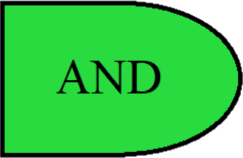
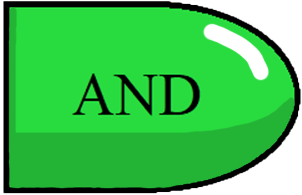
Updated the scBONITA visualizer

diff --git a/visualizer/node.py b/visualizer/node.py
@@ -1,40 +1,58 @@
 import pygame
 import math
 from object import Object
+import pygame.freetype
 
 class Node(Object):
     def __init__(self, name, position, color):
         super().__init__(name, position, color)
+
+        pygame.freetype.init()
         
         # Create a surface for drawing the node
-        self.image = pygame.Surface((self.size * 2, self.size * 2), pygame.SRCALPHA)
+        self.image = pygame.Surface((self.size/2, self.size/2), pygame.SRCALPHA)
 
-        self.rect = self.image.get_rect(center=self.position)
-        self.original_image = self.image.copy()
+        self.inactive_image = pygame.image.load('visualizer/images/node_inactive.png').convert_alpha()
+        self.active_image = pygame.image.load('visualizer/images/node_active.png').convert_alpha()
+
+        self.inactive_scaled_image = pygame.transform.scale(self.inactive_image, (self.size, self.size))
+        self.active_scaled_image = pygame.transform.scale(self.active_image, (self.size, self.size))
 
         self.activation_threshold = 1
-        
+
+        self.image = self.inactive_image
+        self.rect = self.image.get_rect(center=self.position)
+        self.original_image = self.image
+
+        self.font_size = 32
+        self.font = pygame.freetype.Font(None, self.font_size)
+
         # Circle and text will be drawn on self.image
         self.draw_circle()
         self.draw_object_function = self.draw_circle
 
+        self.angle = 0
+
     def draw_circle(self):
         # Clear the image
-        self.image.fill((0, 0, 0, 0))
+        if self.state == 0:
+            self.image = self.inactive_scaled_image
+        elif self.state == 1:
+            self.image = self.active_scaled_image
 
-        pygame.draw.circle(self.image, self.highlight_color, (self.size, self.size), self.highlight_size)
-        pygame.draw.circle(self.image, self.color, (self.size, self.size), self.size-8)
+
+        # Apply rotation if needed
+        self.rect = self.image.get_rect(center=self.position)
         
-        black_text = self.font.render(self.name, True, "black")
-
-        black_text_rect = black_text.get_rect(center=(self.size, self.size))
-        self.image.blit(black_text, black_text_rect)
+        text_surface, text_rect = self.font.render(self.name, pygame.Color('black'))
+        text_rect.center = (self.size/2, self.size/2)
+        self.image.blit(text_surface, text_rect)
 
         self.original_image = self.image.copy()  # Update the original image
     
     def set_size(self, new_size):
         self.size = new_size
-        self.image = pygame.Surface((self.size * 2, self.size * 2), pygame.SRCALPHA)
+        self.image = pygame.Surface((self.size, self.size), pygame.SRCALPHA)
         self.draw_circle()
         self.rect = self.image.get_rect(center=self.position)
         self.original_image = self.image.copy()

diff --git a/visualizer/object.py b/visualizer/object.py
@@ -5,7 +5,7 @@ class Object(pygame.sprite.Sprite):
     def __init__(self, name, position, color):
         super().__init__()
 
-        self.size = 50
+        self.size = 125
         self.name = name
         self.position = position
         self.color = color
@@ -67,14 +67,14 @@ class Object(pygame.sprite.Sprite):
                 unit_direction = (direction[0] / distance, direction[1] / distance)
 
                 # Calculate start and end points on the edges of the nodes, not the centers
-                start_point = (self.position[0] + unit_direction[0] * self.size, self.position[1] + unit_direction[1] * self.size)
-                end_point = (object.position[0] - unit_direction[0] * object.size, object.position[1] - unit_direction[1] * object.size)
+                start_point = (self.position[0] + unit_direction[0] * self.size / 2, self.position[1] + unit_direction[1] * self.size / 2)
+                end_point = (object.position[0] - unit_direction[0] * object.size / 2, object.position[1] - unit_direction[1] * object.size / 2)
 
                 # Draw the line
-                pygame.draw.line(self.display_surface, self.line_color, start_point, end_point, 2)
+                pygame.draw.line(self.display_surface, self.line_color, start_point, end_point, 3)
                 
                 # Assuming arrow_length and arrow_degrees define the size and angle of the arrowhead
-                arrow_length = 10
+                arrow_length = 16
                 arrow_degrees = math.radians(30)
 
                 # Calculate the end point of the arrow body (slightly before the actual end_point)
@@ -85,7 +85,7 @@ class Object(pygame.sprite.Sprite):
                 arrow_point_1 = (arrow_body_end[0] - arrow_length * math.cos(angle + arrow_degrees), 
                                 arrow_body_end[1] - arrow_length * math.sin(angle + arrow_degrees))
                 
-                arrow_point_2 = (arrow_body_end[0] - arrow_length * math.cos(angle - arrow_degrees), 
+                arrow_point_2 = (arrow_body_end[0] - arrow_length  * math.cos(angle - arrow_degrees), 
                                 arrow_body_end[1] - arrow_length * math.sin(angle - arrow_degrees))
 
                 # Draw the arrowhead

diff --git a/visualizer/gate.py b/visualizer/gate.py
@@ -10,26 +10,27 @@ class Gate(Object):
         self.gate_type = gate_type
         self.activation_threshold = self.incoming_connections
 
+
         # General attributes
-        self.size = self.size / 2 # This represents half the width/height of the gate for drawing purposes
+        self.size = self.size/1.5 # This represents half the width/height of the gate for drawing purposes
         self.draw_object_function = self.draw_gate
 
         # AND gate images
         self.inactive_and_image = pygame.image.load('visualizer/images/and_gate.png').convert_alpha()  # Adjusted for gate drawing space
-        self.active_and_image = pygame.image.load('visualizer/images/active_and_gate.png').convert_alpha()
+        self.active_and_image = pygame.image.load('visualizer/images/and_gate.png').convert_alpha()
 
         # OR gate images
         self.inactive_or_image = pygame.image.load('visualizer/images/or_gate.png').convert_alpha()  # Adjusted for gate drawing space
-        self.active_or_image = pygame.image.load('visualizer/images/active_or_gate.png').convert_alpha()
+        self.active_or_image = pygame.image.load('visualizer/images/or_gate.png').convert_alpha()
 
         # NOT gate images
         self.inactive_not_image = pygame.image.load('visualizer/images/not_gate.png').convert_alpha()  # Adjusted for gate drawing space
-        self.active_not_image = pygame.image.load('visualizer/images/active_not_gate.png').convert_alpha()
+        self.active_not_image = pygame.image.load('visualizer/images/not_gate.png').convert_alpha()
 
         self.inactive_image, self.active_image = self.choose_gate_image()
 
-        self.inactive_scaled_image = pygame.transform.scale(self.inactive_image, (self.size * 2 + 20, self.size * 2 + 10))
-        self.active_scaled_image = pygame.transform.scale(self.active_image, (self.size * 2 + 20, self.size * 2 + 10))
+        self.inactive_scaled_image = pygame.transform.scale(self.inactive_image, (self.size+5, self.size))
+        self.active_scaled_image = pygame.transform.scale(self.active_image, (self.size+5, self.size))
         
         # Initial image and rect setup
         self.image = self.inactive_image

diff --git a/visualizer/main.py b/visualizer/main.py
@@ -7,8 +7,8 @@ class Game:
     def __init__(self):
 
         pygame.init()
-        self.WIDTH = 1080
-        self.HEIGHT = 720
+        self.WIDTH = 1920
+        self.HEIGHT = 1080
 
         self.screen = pygame.display.set_mode((self.WIDTH,self.HEIGHT))
         pygame.display.set_caption('Graph visualizer')
@@ -98,15 +98,15 @@ class Game:
 
             keys = pygame.key.get_pressed()
             if keys[pygame.K_TAB]:
-                self.display_box.display_text('Node State', (self.WIDTH / 6 + 25, self.HEIGHT - 200))
-                self.display_box.display_text(f'Update {len(self.states)}', (self.WIDTH / 6 + 25, self.HEIGHT - 175))
+                self.display_box.display_text('Node State', (self.WIDTH / 4 + 25, self.HEIGHT - 400))
+                self.display_box.display_text(f'Update {len(self.states)}', (self.WIDTH / 4 + 25, self.HEIGHT - 375))
 
                 if self.nodes[0].update_num <= 35:
                     self.states[self.nodes[0].update_num] = []
                     for node_num, node in enumerate(self.nodes_group):
                         position_adjustment = 15 * node_num
                         update_adjustment = 10 * self.nodes[0].update_num - 150
-                        self.states[self.nodes[0].update_num].append((node.state, (self.WIDTH / 6 + update_adjustment, self.HEIGHT - 150 + position_adjustment)))
+                        self.states[self.nodes[0].update_num].append((node.state, (self.WIDTH / 4 + update_adjustment, self.HEIGHT - 350 + position_adjustment)))
 
 
                 # Displaying states
